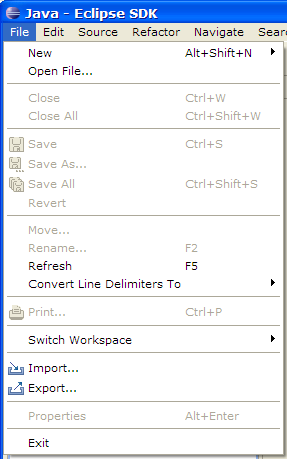
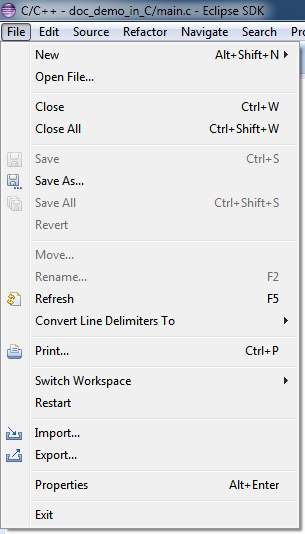
Bug 402071: Updating File menu docs

diff --git a/doc/org.eclipse.cdt.doc.user/reference/cdt_u_m_file.htm b/doc/org.eclipse.cdt.doc.user/reference/cdt_u_m_file.htm
@@ -1,141 +1,149 @@
 <!DOCTYPE HTML PUBLIC "-//W3C//DTD HTML 4.01//EN" "http://www.w3.org/TR/html4/strict.dtd">
 <html lang="en">
-
 <head>
 <meta http-equiv="Content-Language" content="en-us">
 <meta http-equiv="Content-Type" content="text/html; charset=utf-8">
 <title>File Menu actions</title>
 <link rel="stylesheet" type="text/css" href="../help.css">
 </head>
-
 <body>
-
-<div role="main"><h1>File Menu actions</h1>
-<p><img src="../images/cdt_menu_file.png" alt="Selecting File Menu" ></p>
-
-<p>
-<table class="menu" border="1" cellspacing="0" cellpadding="3">
-<tbody>
- <tr><th id="name">Name</th><th id="function">Function</th><th id="keyboard">Keyboard Shortcut</th></tr>
-
- <tr>
-  <td class="menu_name" headers="name">New</td>
-  <td headers="function">Create a new project, folder, or file.</td>
-  <td headers="keyboard">Alt+Shift+N</td>
- </tr>
- 
- <tr>
-  <td class="menu_name" headers="name">Open File...</td>
-  <td headers="function">Open existing file.</td>
-  <td headers="keyboard">&nbsp;</td>
- </tr>
- 
- <tr>
-  <td class="menu_name" headers="name">Close</td>
-  <td headers="function">Close the current editor. 
-  If the editor contains unsaved data, a save request dialog is shown.</td>
-  <td headers="keyboard">Ctrl+F4</td>
- </tr>
- 
- <tr>
-  <td class="menu_name" headers="name">Close All</td>
-  <td headers="function">Close all editors. 
-  If editors contains unsaved data, a save request dialog will be shown.</td>
-  <td headers="keyboard">Ctrl+Shift+F4</td>
- </tr>
- 
- <tr>
-  <td class="menu_name" headers="name">Save</td>
-  <td headers="function">Save the content of the current editor. 
-  Disabled if the editor does not contain unsaved changes.</td>
-  <td headers="keyboard">Ctrl+S</td>
- </tr>
- 
- <tr>
-  <td class="menu_name" headers="name">Save As</td>
-  <td headers="function">Save the content of the current editor under a new name.</td>
-  <td headers="keyboard">&nbsp;</td>
- </tr>
- 
- <tr>
-  <td class="menu_name" headers="name">Save All</td>
-  <td headers="function">Save the content of the current editor. 
-  Disabled if no editor contains unsaved changes.</td>
-  <td headers="keyboard">Ctrl+Shift+S</td>
- </tr>
- 
- <tr>
-  <td class="menu_name" headers="name">Revert</td>
-  <td headers="function">Revert the content of the current editor back to the content of the saved file. 
-  Disabled if the editor does not contain unsaved changes.</td>
-  <td headers="keyboard">&nbsp;</td>
- </tr>
- 
- <tr>
-  <td class="menu_name" headers="name">Move</td>
-  <td headers="function">Move a resource.</td>
-  <td headers="keyboard">&nbsp;</td>
- </tr>
- 
- <tr>
-  <td class="menu_name" headers="name">Rename</td>
-  <td headers="function">Renames a resource.</td>
-  <td headers="keyboard">F2</td>
- </tr>
- 
- <tr>
-  <td class="menu_name" headers="name">Refresh</td>
-  <td headers="function">Refreshes the content of the selected element with the local file system.
-  When launched from no specific selection, this command refreshes all projects.</td>
-  <td headers="keyboard">F5</td>
- </tr>
-
- <tr>
-  <td class="menu_name" headers="name">Convert Line Delimiters to (submenu)</td>
-  <td headers="function">Changes line delimiters either to Windows, or UNIX, or Mac OS9 format.</td>
-  <td headers="keyboard">&nbsp;</td>
- </tr>
-  
- <tr>
-  <td class="menu_name" headers="name">Print</td>
-  <td headers="function">Prints the content of the current editor. Enabled when an editor has the focus.</td>
-  <td headers="keyboard">Ctrl+P</td>
- </tr>
- 
-  <tr>
-  <td class="menu_name" headers="name">Switch workspace...</td>
-  <td headers="function">Relaunches Eclipse with a new workspace.</td>
-  <td headers="keyboard">&nbsp;</td>
- </tr>
-  
- <tr>
-  <td class="menu_name" headers="name">Import</td>
-  <td headers="function">Opens the <strong>Import</strong> dialog and shows all import wizards.</td>
-  <td headers="keyboard">&nbsp;</td>
- </tr>
- 
- <tr>
-  <td class="menu_name" headers="name">Export</td>
-  <td headers="function">Opens the <strong>Export</strong> dialog and shows all export wizards.</td>
-  <td headers="keyboard">&nbsp;</td>
- </tr>
- 
- <tr>
-  <td class="menu_name" headers="name">Properties</td>
-  <td headers="function">Opens the property pages of the select elements.</td>
-  <td headers="keyboard">Alt+Enter</td>
- </tr>
- 
- <tr>
-  <td class="menu_name" headers="name">Exit</td>
-  <td headers="function">Exit Eclipse</td>
-  <td headers="keyboard">&nbsp;</td>
- </tr>
-</tbody></table>
-<p></p>
-
-<p>
-<img src="../images/ng00_04a.gif" ALT="IBM Copyright Statement" >
-</p>
-</div></body>
+	<div role="main">
+		<h1>File Menu actions</h1>
+		<p>
+			<img src="../images/cdt_menu_file.png" alt="Selecting File Menu">
+		</p>
+		<table class="menu" border="1" cellspacing="0">
+			<thead>
+				<tr>
+					<th id="name">Name</th>
+					<th id="function">Function</th>
+					<th id="keyboard">Keyboard Shortcut</th>
+				</tr>
+			</thead>
+			<tbody>
+				<tr>
+					<td class="menu_name" headers="name">New (submenu)</td>
+					<td headers="function">Creates a new project, folder, or file</td>
+					<td headers="keyboard">Alt+Shift+N</td>
+				</tr>
+				<tr>
+					<td class="menu_name" headers="name">Open File...</td>
+					<td headers="function">Opens an existing file</td>
+					<td headers="keyboard">&nbsp;</td>
+				</tr>
+				<tr>
+					<td class="menu_name" headers="name">Close</td>
+					<td headers="function">Closes the current editor (If the
+						editor contains unsaved data, a save request dialog is shown.)</td>
+					<td headers="keyboard">Ctrl+W</td>
+				</tr>
+				<tr>
+					<td class="menu_name" headers="name">Close All</td>
+					<td headers="function">Closes all editors (If any editors
+						contain unsaved data, save request dialogs will be shown for
+						them.)</td>
+					<td headers="keyboard">Ctrl+Shift+W</td>
+				</tr>
+				<tr>
+					<td class="menu_name" headers="name">Save</td>
+					<td headers="function">Saves the content of the current editor
+						(Disabled if the editor does not contain unsaved changes.)</td>
+					<td headers="keyboard">Ctrl+S</td>
+				</tr>
+				<tr>
+					<td class="menu_name" headers="name">Save As...</td>
+					<td headers="function">Saves the content of the current editor
+						under a new name</td>
+					<td headers="keyboard">&nbsp;</td>
+				</tr>
+				<tr>
+					<td class="menu_name" headers="name">Save All</td>
+					<td headers="function">Saves the content of all open editor
+						windows (Disabled if no editor contains unsaved changes.)</td>
+					<td headers="keyboard">Ctrl+Shift+S</td>
+				</tr>
+				<tr>
+					<td class="menu_name" headers="name">Revert</td>
+					<td headers="function">Reverts the content of the current
+						editor back to its most recently saved state (Disabled if the
+						editor does not contain unsaved changes.)</td>
+					<td headers="keyboard">&nbsp;</td>
+				</tr>
+				<tr>
+					<td class="menu_name" headers="name">Move...</td>
+					<td headers="function">Moves a resource</td>
+					<td headers="keyboard">&nbsp;</td>
+				</tr>
+				<tr>
+					<td class="menu_name" headers="name">Rename...</td>
+					<td headers="function">Renames a resource</td>
+					<td headers="keyboard">F2</td>
+				</tr>
+				<tr>
+					<td class="menu_name" headers="name">Refresh</td>
+					<td headers="function">Refreshes the selected element against
+						the local file system (If nothing is selected, all open projects
+						are refreshed.)</td>
+					<td headers="keyboard">F5</td>
+				</tr>
+				<tr>
+					<td class="menu_name" headers="name">Convert Line Delimiters
+						to (submenu)</td>
+					<td headers="function">Changes the line delimiters of the
+						current editor to Windows (\r\n), or UNIX (\n) format</td>
+					<td headers="keyboard">&nbsp;</td>
+				</tr>
+				<tr>
+					<td class="menu_name" headers="name">Print...</td>
+					<td headers="function">Prints the content of the current editor
+						(Enabled when an editor has the focus.)</td>
+					<td headers="keyboard">Ctrl+P</td>
+				</tr>
+				<tr>
+					<td class="menu_name" headers="name">Switch workspace
+						(submenu)</td>
+					<td headers="function">Relaunches Eclipse with a different workspace
+						(The submenu contains a list of recently used workspaces, followed
+						by Other..., which will bring up the Workspace selection dialog)</td>
+					<td headers="keyboard">&nbsp;</td>
+				</tr>
+				<tr>
+					<td class="menu_name" headers="name">Restart</td>
+					<td headers="function">Relaunches Eclipse (which may bring up
+						the Workspace selection dialog, if it is set to be displayed on
+						startup)</td>
+					<td headers="keyboard">&nbsp;</td>
+				</tr>
+				<tr>
+					<td class="menu_name" headers="name">Import...</td>
+					<td headers="function">Openes the <strong>Import</strong> dialog,
+						which allows the selection of an Import wizard
+					</td>
+					<td headers="keyboard">&nbsp;</td>
+				</tr>
+				<tr>
+					<td class="menu_name" headers="name">Export</td>
+					<td headers="function">Opens the <strong>Export</strong> dialog,
+						which allows the selection of an Export wizard
+					</td>
+					<td headers="keyboard">&nbsp;</td>
+				</tr>
+				<tr>
+					<td class="menu_name" headers="name">Properties</td>
+					<td headers="function">Opens the property page for the selected
+						element</td>
+					<td headers="keyboard">Alt+Enter</td>
+				</tr>
+				<tr>
+					<td class="menu_name" headers="name">Exit</td>
+					<td headers="function">Exits Eclipse</td>
+					<td headers="keyboard">&nbsp;</td>
+				</tr>
+			</tbody>
+		</table>
+		<p>
+			<img alt="IBM Copyright Statement" src="../images/ng00_04a.gif">
+		</p>
+	</div>
+</body>
 </html>
